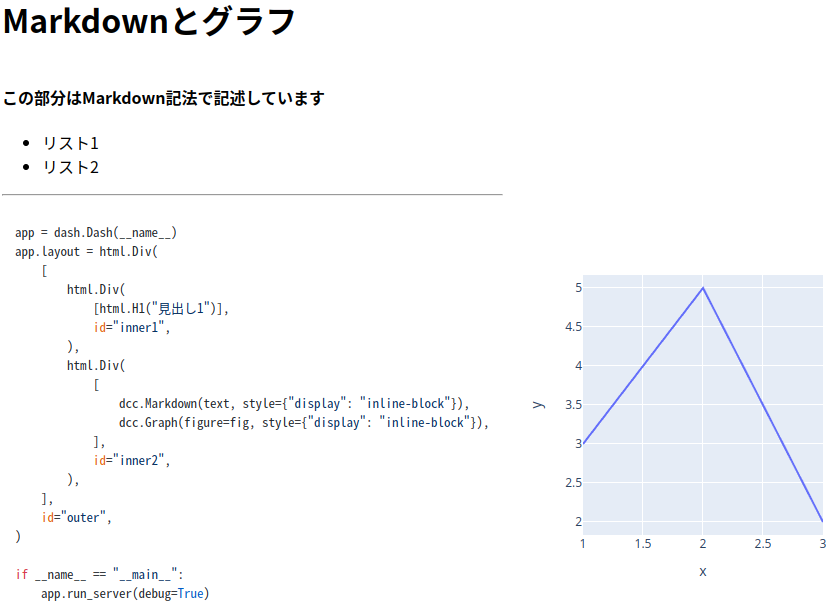
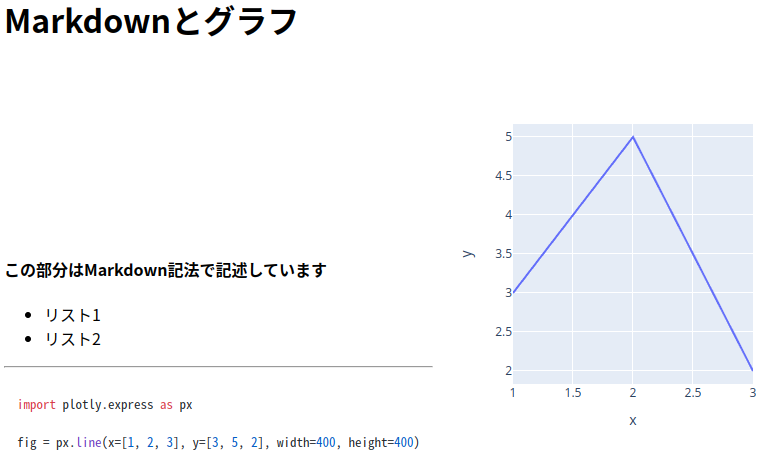
update markdown text

diff --git a/source/code/dash_figure.py b/source/code/dash_figure.py
@@ -12,26 +12,9 @@ text = """
 ---
 
 ```
-app = dash.Dash(__name__)
-app.layout = html.Div(
-    [
-        html.Div(
-            [html.H1("見出し1")],
-            id="inner1",
-        ),
-        html.Div(
-            [
-                dcc.Markdown(text, style={"display": "inline-block"}),
-                dcc.Graph(figure=fig, style={"display": "inline-block"}),
-            ],
-            id="inner2",
-        ),
-    ],
-    id="outer",
-)
+import plotly.express as px
 
-if __name__ == "__main__":
-    app.run_server(debug=True)
+fig = px.line(x=[1, 2, 3], y=[3, 5, 2], width=400, height=400)
 ```
 
 """
